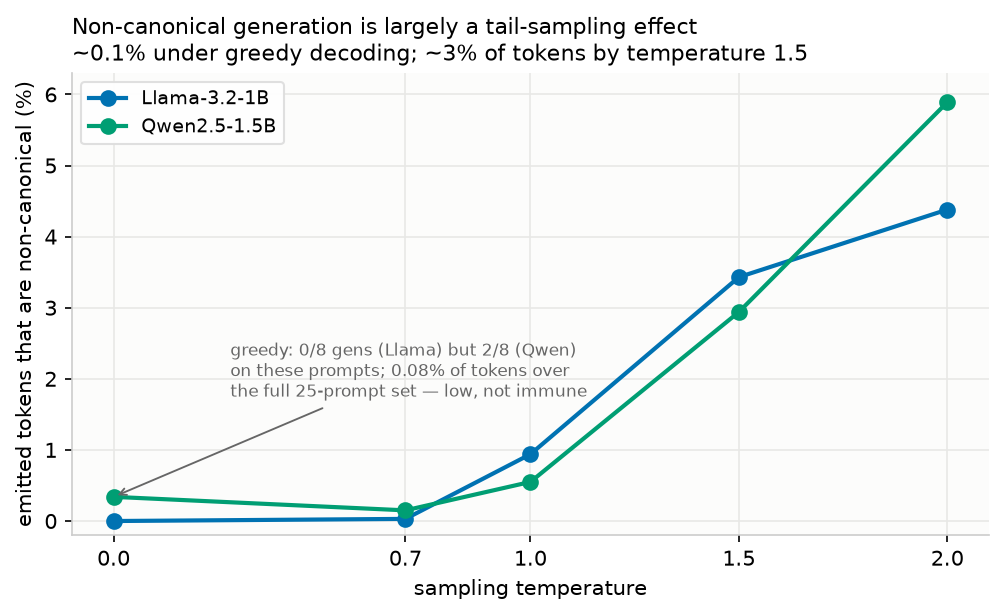
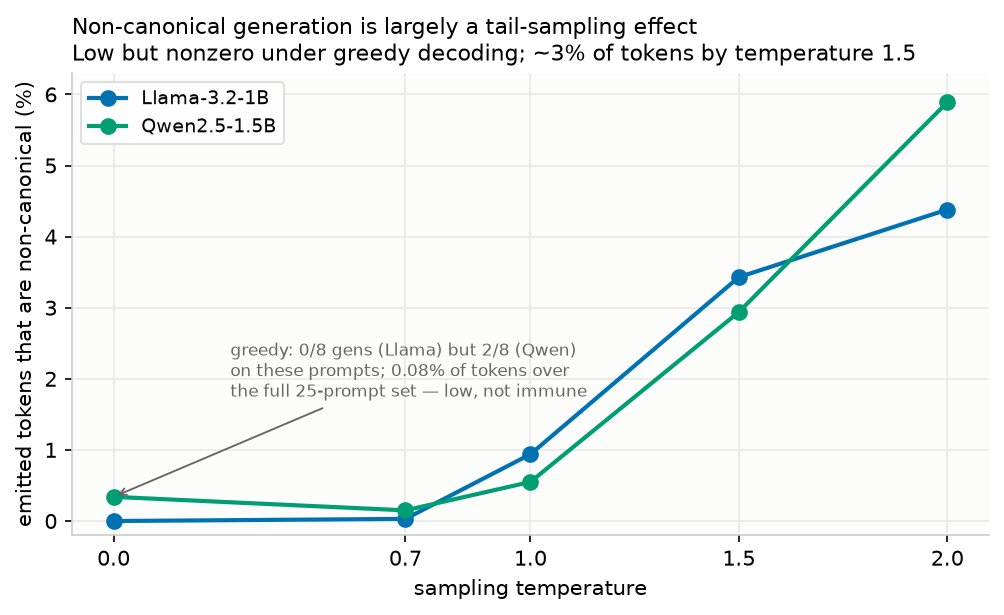
Address review: verifiers must fail on drift, plus reproduction caveats
- The three --from-jsonl verifiers printed MISMATCH but exited 0, which would
  have let the CI drift guard pass on a drifted artifact. They now return a
  nonzero exit code, and phase2_temperature's table is printed from the
  recomputed values rather than the stored flags, so a tampered file can no
  longer print a wrong-but-plausible table alongside a green exit.
- Document the one width-sweep cell that does not reproduce: dim-16 direct
  reads ~0.8-1.0% against the published 1.5%, because that arm is retok-main-s0
  standing in for the never-trained retok-sweep-cot-d16 and ~1%-argmax cells
  are precision-sensitive (CPU/fp32 here vs bf16 GPU originally).
- reproduce_analyses.sh and CI read the divergence records from the repo-staged
  artifacts/ copy while it exists, falling back to the published dataset — so
  neither is red in the window before the HF upload.
- Guard the reproduce.yaml cu128 fallback's uninstall pipeline against pipefail
  when grep matches nothing (xargs -r + || true).
- Round the temperature-1.0 range outward (0.5-1.0%, measured 0.55/0.94) and
  reword the temperature figure title, whose "~0.1% under greedy" sat next to a
  plotted 0.34% greedy point.

Changed region(s): [[0.0618, 0.0618, 0.9263, 0.1236]]

diff --git a/retok/phase2_temperature.py b/retok/phase2_temperature.py
@@ -171,13 +171,19 @@ def sweep(
         print(f"Wrote {len(records)} generation records to {jsonl_out}")
 
 
-def verify_records(paths: list[str]) -> None:
-    """CPU re-derivation: recompute canonicality from the stored token IDs."""
+def verify_records(paths: list[str]) -> int:
+    """CPU re-derivation: recompute canonicality from the stored token IDs.
+
+    The printed table comes from the *recomputed* values, not the stored flags
+    (which are only compared against them), so a tampered or drifted file both
+    prints correctly and fails. Returns a nonzero exit code on any mismatch, so
+    CI and `set -e` scripts actually fail on drift.
+    """
     from transformers import AutoTokenizer
 
     from common.artifacts import resolve_record_path
-    from retok.phase2_probe import decode_for_roundtrip, roundtrip_is_measurable
 
+    exit_code = 0
     for pathlike in paths:
         path = Path(resolve_record_path(pathlike))
         records = [json.loads(x) for x in path.read_text().splitlines() if x]
@@ -193,25 +199,38 @@ def verify_records(paths: list[str]) -> None:
             print("  (gated repo? accept the license and `huggingface-cli login`)")
             continue
         mismatches = 0
+        recomputed: list[dict[str, object]] = []
         for rec in records:
             ids = rec["generated_ids"]
-            text = decode_for_roundtrip(tokenizer, ids)
-            measurable = roundtrip_is_measurable(tokenizer, text)
-            if measurable != (not rec["excluded"]):
+            result = diff_spans(tokenizer, ids)
+            rec2: dict[str, object] = {
+                "temperature": rec["temperature"],
+                "generated_ids": ids,
+            }
+            if result is None:
+                rec2.update(excluded=True, non_canonical=False, spans=[])
+            else:
+                _, spans = result
+                rec2.update(
+                    excluded=False,
+                    non_canonical=bool(spans),
+                    spans=[{"actual": sp.actual_tokens} for sp in spans],
+                )
+            recomputed.append(rec2)
+            if rec2["excluded"] != rec["excluded"] or (
+                rec2["non_canonical"] != rec["non_canonical"]
+            ):
                 mismatches += 1
-                continue
-            if not measurable:
-                continue
-            canon = tokenizer.encode(text, add_special_tokens=False)
-            if (canon != ids) != rec["non_canonical"]:
-                mismatches += 1
-        _summarise(model_name, records)
+        _summarise(model_name, recomputed)
         status = (
             "OK — recomputed canonicality matches the stored flags exactly"
             if mismatches == 0
             else f"MISMATCH — {mismatches} records disagree with recomputation"
         )
         print(f"  {status}")
+        if mismatches:
+            exit_code = 1
+    return exit_code
 
 
 def main() -> None:
@@ -245,8 +264,7 @@ def main() -> None:
     )
     args = parser.parse_args()
     if args.from_jsonl:
-        verify_records(args.from_jsonl)
-        return
+        raise SystemExit(verify_records(args.from_jsonl))
     for model_name in args.models:
         jsonl_out = (
             Path(args.jsonl_dir) / f"temperature_{model_name.replace('/', '_')}.jsonl"

diff --git a/retok/phase2_decay.py b/retok/phase2_decay.py
@@ -217,18 +217,20 @@ def run(
     _report(model_name, n_spans, by_dist)
 
 
-def verify_records(paths: list[str]) -> None:
+def verify_records(paths: list[str]) -> int:
     """CPU re-derivation of the decay table from saved records.
 
     Canonicality, the span region, and which prefixes still differ from their
     replay are recomputed from the raw token IDs; KL/flip values are read from
-    the records (recomputing them needs the model).
+    the records (recomputing them needs the model). Returns a nonzero exit code
+    if any record disagrees with recomputation.
     """
     from transformers import AutoTokenizer
 
     from common.artifacts import resolve_record_path
     from retok.phase2_probe import decode_for_roundtrip, roundtrip_is_measurable
 
+    exit_code = 0
     for pathlike in paths:
         path = Path(resolve_record_path(pathlike))
         records = [json.loads(x) for x in path.read_text().splitlines() if x]
@@ -288,6 +290,9 @@ def verify_records(paths: list[str]) -> None:
             else f"MISMATCH — {mismatches} records disagree with recomputation"
         )
         print(f"\n  {status}")
+        if mismatches:
+            exit_code = 1
+    return exit_code
 
 
 def main() -> None:
@@ -309,8 +314,7 @@ def main() -> None:
     )
     args = parser.parse_args()
     if args.from_jsonl:
-        verify_records(args.from_jsonl)
-        return
+        raise SystemExit(verify_records(args.from_jsonl))
     run(
         args.model,
         n_samples=args.n_samples,

diff --git a/retok/phase2_interp.py b/retok/phase2_interp.py
@@ -296,18 +296,20 @@ def run(
     _report(model_name, n_gen, n_noncanon, boundaries)
 
 
-def verify_records(paths: list[str]) -> None:
+def verify_records(paths: list[str]) -> int:
     """CPU re-derivation of the report from saved records.
 
     Everything derivable from token IDs — canonicality, the span region, which
     boundaries flip — is recomputed rather than trusted; the KL values and
     probabilities are read from the records (recomputing them needs the model).
+    Returns a nonzero exit code if any record disagrees with recomputation.
     """
     from transformers import AutoTokenizer
 
     from common.artifacts import resolve_record_path
     from retok.phase2_probe import decode_for_roundtrip, roundtrip_is_measurable
 
+    exit_code = 0
     for pathlike in paths:
         path = Path(resolve_record_path(pathlike))
         records = [json.loads(x) for x in path.read_text().splitlines() if x]
@@ -368,6 +370,9 @@ def verify_records(paths: list[str]) -> None:
             else f"MISMATCH — {mismatches} records disagree with recomputation"
         )
         print(f"\n  {status}")
+        if mismatches:
+            exit_code = 1
+    return exit_code
 
 
 def main() -> None:
@@ -389,8 +394,7 @@ def main() -> None:
     )
     args = parser.parse_args()
     if args.from_jsonl:
-        verify_records(args.from_jsonl)
-        return
+        raise SystemExit(verify_records(args.from_jsonl))
     run(
         args.model,
         n_samples=args.n_samples,

diff --git a/retok/eval_sweep.py b/retok/eval_sweep.py
@@ -9,7 +9,12 @@ checkpoints, which drop the merged vocabulary entirely (``include_merged=False``
 detected from the checkpoint's own vocab size.
 
 There is no ``retok-sweep-cot-d16``: that arm is the headline model itself
-(``retok-main-s0``, trained on 20M examples where the sweep used 15M).
+(``retok-main-s0``, trained on 20M examples where the sweep used 15M). Expect
+that substitution to show: the dim-16 *direct (merged token)* cell reads
+~0.8-1.0% here against the sweep table's published 1.5% — a different
+checkpoint, evaluated at CPU/fp32 where the original eval ran bf16 on GPU, and
+~1%-accuracy argmax cells are precision-sensitive at exactly that scale. The
+other eleven cells reproduce within a few tenths of a point.
 
 Run (downloads each ~0.1 MB checkpoint from the published dataset on demand):
 

diff --git a/retok/figures.py b/retok/figures.py
@@ -300,7 +300,7 @@ def plot_temperature(out_path: Path) -> None:
     ax.set_ylim(-0.2, 6.3)
     ax.set_title(
         "Non-canonical generation is largely a tail-sampling effect\n"
-        "~0.1% under greedy decoding; ~3% of tokens by temperature 1.5",
+        "Low but nonzero under greedy decoding; ~3% of tokens by temperature 1.5",
         fontsize=10.5,
         loc="left",
     )

diff --git a/WRITEUP.md b/WRITEUP.md
@@ -123,7 +123,7 @@ domain column as "how far outside its comfort zone the prompt puts the model",
 not as "how hard this script is to tokenize".
 
 **Temperature dominates everything.** **0.08%** of tokens under greedy
-decoding, **0.5–0.9%** at temperature 1.0, and **~3%** by temperature 1.5 — a
+decoding, **0.5–1.0%** at temperature 1.0, and **~3%** by temperature 1.5 — a
 ~4× jump for half a point of temperature. This is largely a tail-sampling
 phenomenon: models concentrate mass on the canonical continuation, and most of
 these tokens come out of the tail. (Sweep re-measured 2026-08-19 with published

diff --git a/README.md b/README.md
@@ -30,7 +30,7 @@ adversary required.
 2. **In-the-wild rates are low, and fall with scale.** Across seven models and
    five tokenizer lineages at as-released precision, the share of emitted tokens
    that are non-canonical runs 0–5%, dominated by language (English ≈ 0%, CJK up
-   to 5.2%) and by temperature (**0.08% under greedy decoding**, 0.5–0.9% at
+   to 5.2%) and by temperature (**0.08% under greedy decoding**, 0.5–1.0% at
    temperature 1.0, ~3% at 1.5). Within the Llama family, CJK drops 5.20% → 2.93% → 1.21%
    from 1B → 3B → 8B.
 
